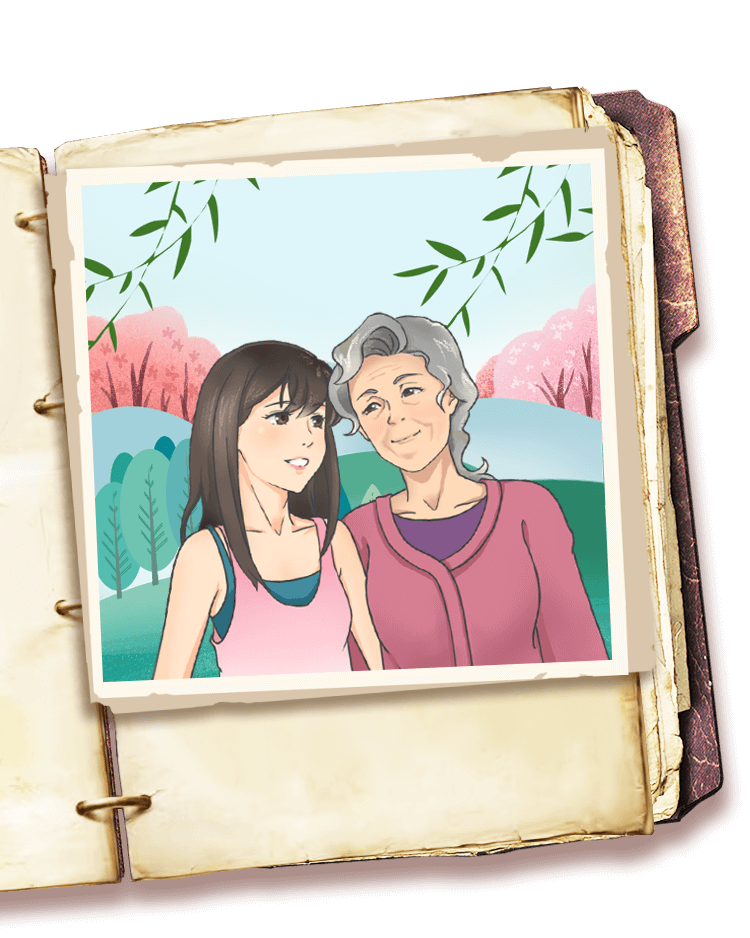
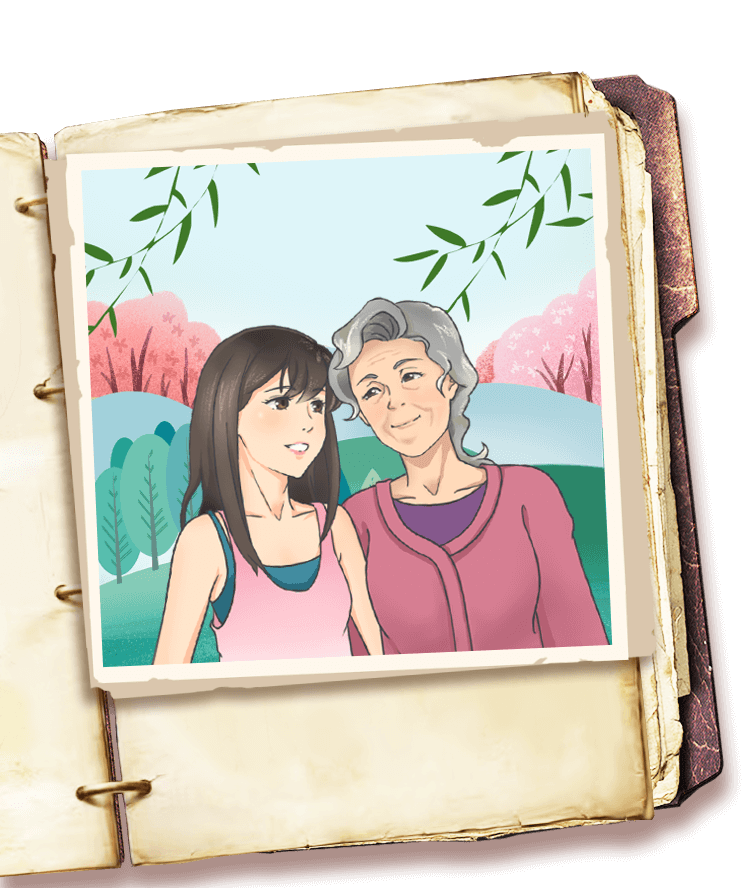
qqq

Changed region(s): [[0.0, 0.0608, 0.9813, 1.0], [0.0, 0.8514, 0.0613, 0.8818], [0.1227, 0.2736, 0.1533, 0.3041]]

diff --git a/css/styles.less b/css/styles.less
@@ -28,10 +28,11 @@ html,body{
             &:nth-child(2){
                 position: relative;
                 z-index: 1;
+                top: -.6rem;
                 >div{
                     &:nth-child(1){
                         width:7.5rem;
-                        height:9.38rem;
+                        height:8.88rem;
                     }
                     &:nth-child(2){
                         position: absolute;
@@ -64,6 +65,7 @@ html,body{
                 z-index: 100;
                 left: 0;
                 right: 0;
+                top: -.6rem;
                 margin: auto;
             }
             &:nth-child(4){

diff --git a/css/styles.css b/css/styles.css
@@ -34,11 +34,12 @@ html section.home > div:nth-child(2),
 body section.home > div:nth-child(2) {
   position: relative;
   z-index: 1;
+  top: -0.6rem;
 }
 html section.home > div:nth-child(2) > div:nth-child(1),
 body section.home > div:nth-child(2) > div:nth-child(1) {
   width: 7.5rem;
-  height: 9.38rem;
+  height: 8.88rem;
 }
 html section.home > div:nth-child(2) > div:nth-child(2),
 body section.home > div:nth-child(2) > div:nth-child(2) {
@@ -70,6 +71,7 @@ body section.home > div:nth-child(3) {
   z-index: 100;
   left: 0;
   right: 0;
+  top: -0.6rem;
   margin: auto;
 }
 html section.home > div:nth-child(4),
